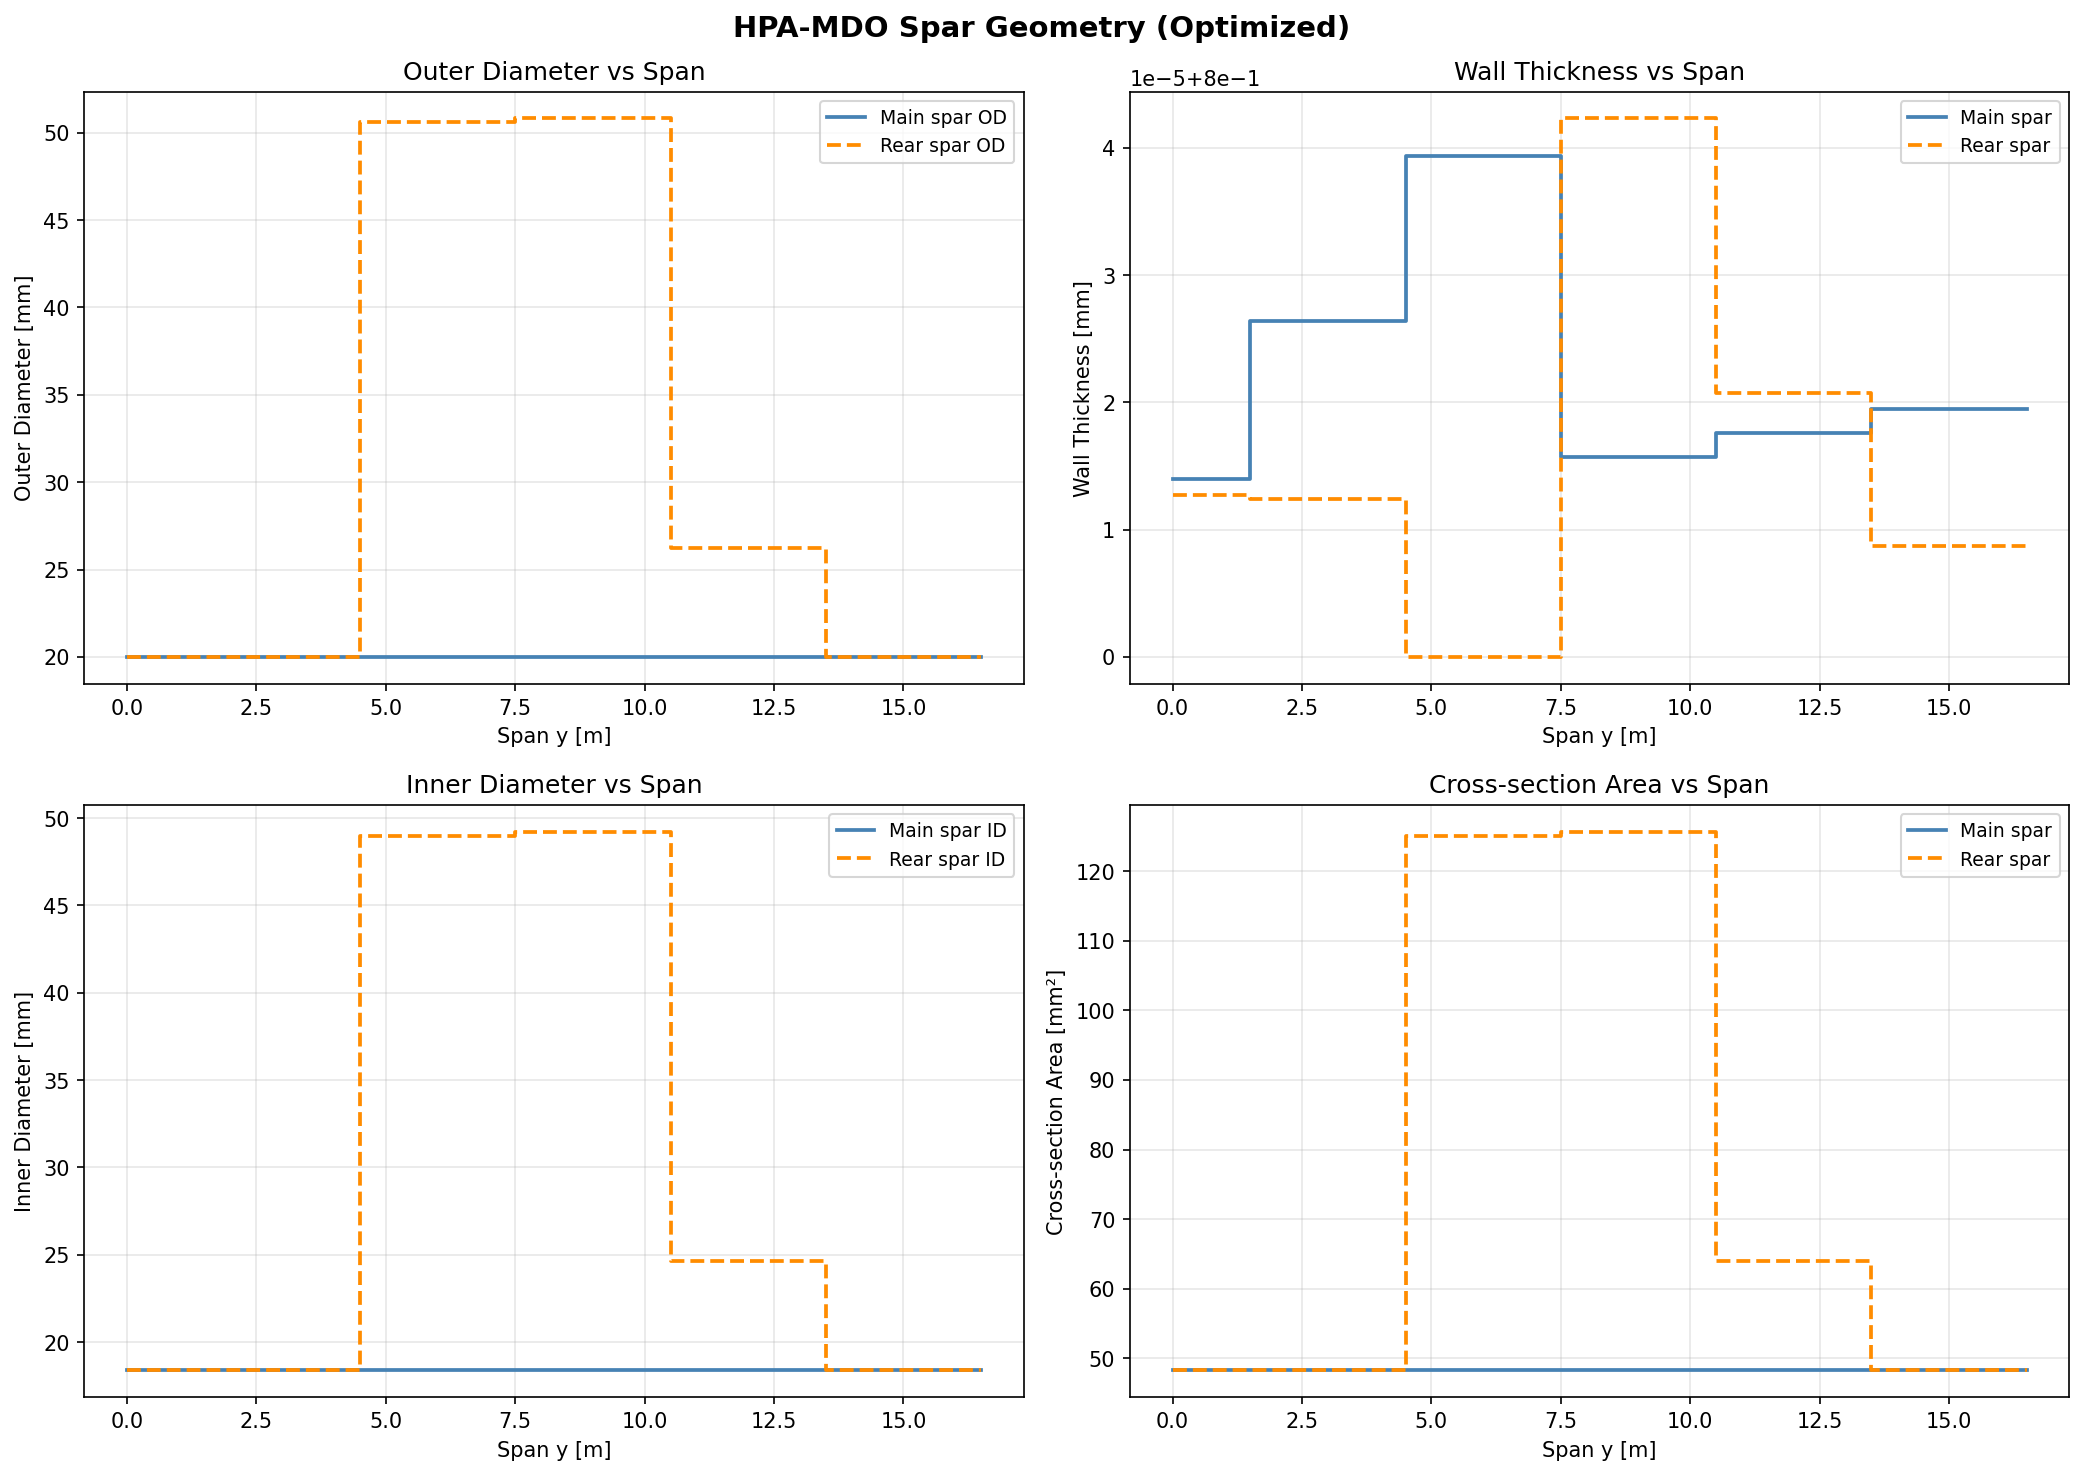
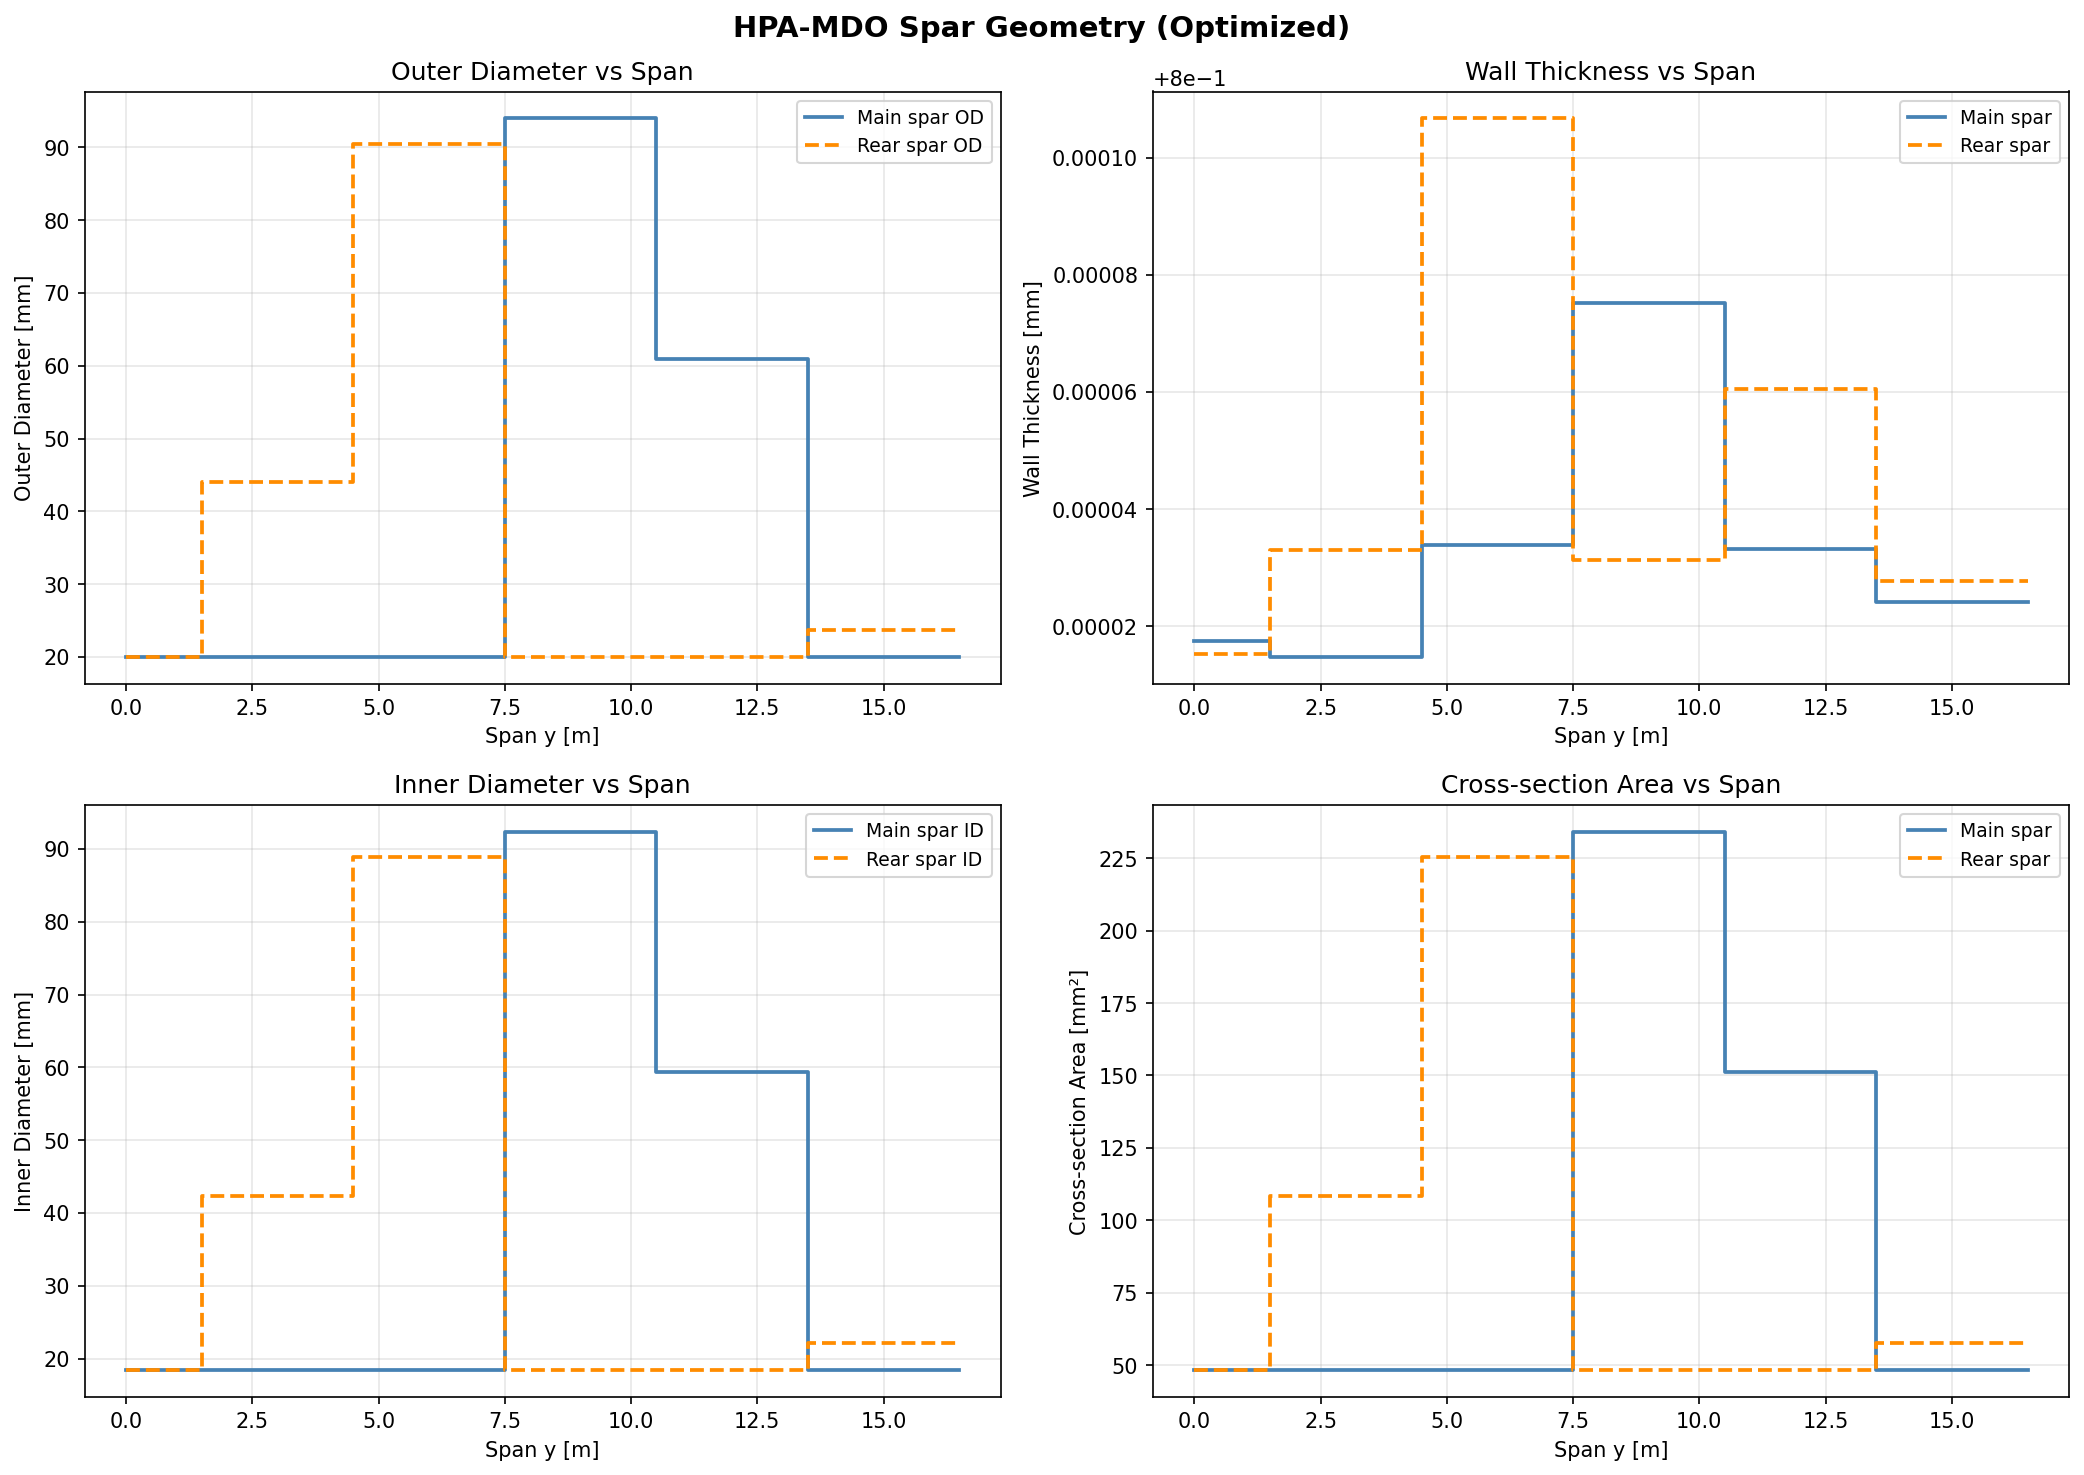
feat: Add max 2.5m tip deflection constraint & fix feasible status bugs

diff --git a/src/hpa_mdo/structure/optimizer.py b/src/hpa_mdo/structure/optimizer.py
@@ -65,6 +65,7 @@ class OptimizationResult:
     allowable_stress_rear_Pa: float
     failure_index: float           # KS ≤ 0 means feasible
     tip_deflection_m: float
+    max_tip_deflection_m: Optional[float]
     twist_max_deg: float
 
     # Design variables
@@ -80,19 +81,32 @@ class OptimizationResult:
 
     def summary(self) -> str:
         """Human-readable summary."""
+        # Check overall feasibility
+        feasible = (
+            self.failure_index <= 0
+            and (self.max_tip_deflection_m is None or self.tip_deflection_m <= self.max_tip_deflection_m * 1.02)
+        )
+        status_text = "✓ CONVERGED (Feasible)" if (self.success and feasible) else "✗ CONVERGED (Infeasible)" if self.success else "✗ FAILED"
+        
         lines = [
             "=" * 60,
             "  HPA-MDO Spar Optimization Result",
             "=" * 60,
-            f"  Status         : {'✓ CONVERGED' if self.success else '✗ FAILED'} — {self.message}",
+            f"  Status         : {status_text} — {self.message}",
             f"  Total mass     : {self.total_mass_full_kg:.2f} kg (full span)",
             f"  Spar tube mass : {self.spar_mass_full_kg:.2f} kg (full span)",
-            f"  Tip deflection : {self.tip_deflection_m*1000:.0f} mm",
-            f"  Max twist      : {self.twist_max_deg:.2f}°",
-            f"  Failure index  : {self.failure_index:.4f} ({'SAFE' if self.failure_index <= 0 else 'VIOLATED'})",
-            "",
-            "  Main spar segments:",
         ]
+        
+        defl_str = f"{self.tip_deflection_m*1000:.0f} mm"
+        if self.max_tip_deflection_m is not None:
+            defl_status = "OK" if self.tip_deflection_m <= self.max_tip_deflection_m * 1.02 else "VIOLATED"
+            defl_str += f" / {self.max_tip_deflection_m*1000:.0f} mm max ({defl_status})"
+            
+        lines.append(f"  Tip deflection : {defl_str}")
+        lines.append(f"  Max twist      : {self.twist_max_deg:.2f}°")
+        lines.append(f"  Failure index  : {self.failure_index:.4f} ({'SAFE' if self.failure_index <= 0 else 'VIOLATED'})")
+        lines.append("")
+        lines.append("  Main spar segments:")
         for i, (t, r) in enumerate(zip(self.main_t_seg_mm, self.main_r_seg_mm)):
             lines.append(f"    Segment {i+1}: OD={r*2:.1f}mm, t={t:.2f}mm")
         if self.rear_t_seg_mm is not None and self.rear_r_seg_mm is not None:
@@ -226,6 +240,7 @@ class SparOptimizer:
         bounds = bounds_main_t + bounds_main_r + bounds_rear_t + bounds_rear_r
 
         max_twist = cfg.wing.max_tip_twist_deg
+        max_defl = cfg.wing.max_tip_deflection_m if cfg.wing.max_tip_deflection_m is not None else float("inf")
 
         # Evaluation cache
         _cache = {}
@@ -248,6 +263,7 @@ class SparOptimizer:
                 "mass": float(self._prob.get_val("struct.mass.total_mass_full")),
                 "failure": float(self._prob.get_val("struct.failure.failure")),
                 "twist": float(self._prob.get_val("struct.twist.twist_max_deg")),
+                "tip_defl": float(self._prob.get_val("struct.tip_defl.tip_deflection_m")),
             }
             _cache[key] = res
             return res
@@ -265,6 +281,10 @@ class SparOptimizer:
             if r["twist"] > max_twist:
                 excess = (r["twist"] - max_twist) / max_twist
                 penalty += 1000.0 * excess ** 2
+            # Deflection violation
+            if max_defl < float("inf") and r["tip_defl"] > max_defl:
+                excess_defl = (r["tip_defl"] - max_defl) / max_defl
+                penalty += 1000.0 * excess_defl ** 2
             # Physically impossible tube: wall thickness > 95% of radius
             x_main_t = x[:n_seg]
             x_main_r = x[n_seg:2*n_seg]
@@ -279,6 +299,7 @@ class SparOptimizer:
                     penalty += 200.0 * float(np.sum(np.maximum(t_r_ratio_rear, 0.0) ** 2))
             return r["mass"] * (1.0 + penalty)
 
+        print("  [Phase 1] Differential Evolution global search...")
         de_result = differential_evolution(
             penalty_obj, bounds=bounds, seed=42,
             maxiter=200, tol=1e-5, polish=False,
@@ -301,6 +322,8 @@ class SparOptimizer:
             {"type": "ineq", "fun": lambda x: -_eval(x)["failure"]},
             {"type": "ineq", "fun": lambda x: max_twist - _eval(x)["twist"]},
         ]
+        if max_defl < float("inf"):
+            constraints.append({"type": "ineq", "fun": lambda x: max_defl - _eval(x)["tip_defl"]})
 
         slsqp = scipy_minimize(
             obj, x_de, method="SLSQP",
@@ -314,9 +337,10 @@ class SparOptimizer:
 
         tol_f = 0.01  # failure tolerance
         tol_tw = max_twist * 1.02  # 2% tolerance on twist
+        tol_df = max_defl * 1.02 if max_defl < float("inf") else float("inf")
 
-        de_feas = r_de["failure"] <= tol_f and r_de["twist"] <= tol_tw
-        sq_feas = r_sq["failure"] <= tol_f and r_sq["twist"] <= tol_tw
+        de_feas = r_de["failure"] <= tol_f and r_de["twist"] <= tol_tw and r_de["tip_defl"] <= tol_df
+        sq_feas = r_sq["failure"] <= tol_f and r_sq["twist"] <= tol_tw and r_sq["tip_defl"] <= tol_df
 
         # ALWAYS prefer feasible over infeasible
         if sq_feas and de_feas:
@@ -331,7 +355,13 @@ class SparOptimizer:
         else:
             # Neither feasible — pick the one with less constraint violation
             v_de = max(0, r_de["failure"]) + max(0, r_de["twist"] - max_twist)
+            if max_defl < float("inf"):
+                v_de += max(0, r_de["tip_defl"] - max_defl) / max_defl  # Normalized
+            
             v_sq = max(0, r_sq["failure"]) + max(0, r_sq["twist"] - max_twist)
+            if max_defl < float("inf"):
+                v_sq += max(0, r_sq["tip_defl"] - max_defl) / max_defl
+
             x_best = slsqp.x if v_sq <= v_de else x_de
             msg = "scipy: no fully feasible solution — best compromise"
 
@@ -343,7 +373,7 @@ class SparOptimizer:
             self._prob.set_val("struct.seg_mapper.rear_r_seg", x_best[3*n_seg:], units="m")
         raw = run_analysis(self._prob)
         best_r = _eval(x_best)
-        success = best_r["failure"] <= tol_f and best_r["twist"] <= tol_tw
+        success = best_r["failure"] <= tol_f and best_r["twist"] <= tol_tw and best_r["tip_defl"] <= tol_df
         return self._to_result(raw, success=success, message=msg)
 
     def _to_result(self, raw: dict, success: bool, message: str) -> OptimizationResult:
@@ -370,6 +400,7 @@ class SparOptimizer:
             allowable_stress_rear_Pa=sigma_a_rear,
             failure_index=raw["failure"],
             tip_deflection_m=raw["tip_deflection_m"],
+            max_tip_deflection_m=cfg.wing.max_tip_deflection_m,
             twist_max_deg=raw["twist_max_deg"],
             main_t_seg_mm=raw["main_t_seg"] * 1000.0,
             main_r_seg_mm=raw["main_r_seg"] * 1000.0,

diff --git a/src/hpa_mdo/structure/oas_structural.py b/src/hpa_mdo/structure/oas_structural.py
@@ -759,6 +759,31 @@ class TwistConstraintComp(om.ExplicitComponent):
 
 
 # ═════════════════════════════════════════════════════════════════════════
+#  Component 9 : Tip deflection extraction
+# ═════════════════════════════════════════════════════════════════════════
+
+class TipDeflectionConstraintComp(om.ExplicitComponent):
+    """Extract tip deflection from beam displacements.
+
+    tip_deflection = disp[-1, 2]
+    Constraint: tip_deflection <= max_tip_deflection_m.
+    """
+
+    def initialize(self):
+        self.options.declare("n_nodes", types=int)
+
+    def setup(self):
+        nn = self.options["n_nodes"]
+        self.add_input("disp", shape=(nn, 6))
+        self.add_output("tip_deflection_m", val=0.0)
+        self.declare_partials("*", "*", method="cs")
+
+    def compute(self, inputs, outputs):
+        # Vertical displacement (Z) is DOF 2
+        outputs["tip_deflection_m"] = inputs["disp"][-1, 2]
+
+
+# ═════════════════════════════════════════════════════════════════════════
 #  Top-level group
 # ═════════════════════════════════════════════════════════════════════════
 
@@ -944,6 +969,9 @@ class HPAStructuralGroup(om.Group):
         # 8. Twist constraint
         self.add_subsystem("twist", TwistConstraintComp(n_nodes=nn))
 
+        # 9. Tip deflection constraint
+        self.add_subsystem("tip_defl", TipDeflectionConstraintComp(n_nodes=nn))
+
         # ── Connections ──
         self.connect("seg_mapper.main_t_elem", "spar_props.main_t_elem")
         self.connect("seg_mapper.main_r_elem", "spar_props.main_r_elem")
@@ -977,6 +1005,7 @@ class HPAStructuralGroup(om.Group):
             self.connect("stress.vonmises_rear", "failure.vonmises_rear")
 
         self.connect("fem.disp", "twist.disp")
+        self.connect("fem.disp", "tip_defl.disp")
 
 
 def compute_outer_radius_from_wing(wing, spar_cfg) -> np.ndarray:
@@ -1067,6 +1096,13 @@ def build_structural_problem(
         upper=cfg.wing.max_tip_twist_deg,
     )
 
+    # 3. Tip deflection constraint
+    if cfg.wing.max_tip_deflection_m is not None:
+        model.add_constraint(
+            "struct.tip_defl.tip_deflection_m",
+            upper=cfg.wing.max_tip_deflection_m,
+        )
+
     # ── Driver ──
     driver = prob.driver = om.ScipyOptimizeDriver()
     driver.options["optimizer"] = cfg.solver.optimizer
@@ -1150,7 +1186,7 @@ def _extract_results(prob: om.Problem) -> dict:
         "failure": float(prob.get_val("struct.failure.failure")),
         "twist_max_deg": float(prob.get_val("struct.twist.twist_max_deg")),
         "disp": prob.get_val("struct.fem.disp").copy(),
-        "tip_deflection_m": float(prob.get_val("struct.fem.disp")[-1, 2]),
+        "tip_deflection_m": float(prob.get_val("struct.tip_defl.tip_deflection_m")),
         "vonmises_main": prob.get_val("struct.stress.vonmises_main").copy(),
         "main_t_seg": prob.get_val("struct.seg_mapper.main_t_seg").copy(),
         "main_r_seg": prob.get_val("struct.seg_mapper.main_r_seg").copy(),

diff --git a/src/hpa_mdo/utils/visualization.py b/src/hpa_mdo/utils/visualization.py
@@ -160,7 +160,17 @@ def plot_beam_analysis(
     # ── 6. Mass summary ───────────────────────────────────────────────────
     ax6 = fig.add_subplot(gs[1, 2])
     ax6.axis("off")
-    status_str = "CONVERGED" if result.success else "FAILED"
+    feasible = (
+        result.failure_index <= 0
+        and (result.max_tip_deflection_m is None or result.tip_deflection_m <= result.max_tip_deflection_m * 1.02)
+    )
+    if result.success and feasible:
+        status_str = "CONVERGED (Feasible)"
+    elif result.success:
+        status_str = "CONVERGED (Infeasible)"
+    else:
+        status_str = "FAILED"
+        
     summary_text = (
         f"Mass Summary\n"
         f"{'=' * 30}\n"
@@ -332,7 +342,17 @@ def write_optimization_summary(
         The formatted summary string.
     """
     ts = datetime.now().strftime("%Y-%m-%d %H:%M:%S")
-    status = "CONVERGED" if result.success else "FAILED"
+    
+    feasible = (
+        result.failure_index <= 0
+        and (result.max_tip_deflection_m is None or result.tip_deflection_m <= result.max_tip_deflection_m * 1.02)
+    )
+    if result.success and feasible:
+        status = "CONVERGED (Feasible)"
+    elif result.success:
+        status = "CONVERGED (Infeasible)"
+    else:
+        status = "FAILED"
 
     # ── Header ────────────────────────────────────────────────────────────
     lines = [
@@ -351,8 +371,15 @@ def write_optimization_summary(
         "-" * 64,
         "  STRUCTURAL PERFORMANCE",
         "-" * 64,
-        f"  Tip deflection  : {result.tip_deflection_m * 1000:.2f} mm  "
-        f"({result.tip_deflection_m:.5f} m)",
+    ]
+    
+    defl_str = f"  Tip deflection  : {result.tip_deflection_m * 1000:.2f} mm  ({result.tip_deflection_m:.5f} m)"
+    if result.max_tip_deflection_m is not None:
+        defl_status = "OK" if result.tip_deflection_m <= result.max_tip_deflection_m * 1.02 else "VIOLATED"
+        defl_str += f" / MAX: {result.max_tip_deflection_m*1000:.1f} mm ({defl_status})"
+    lines.append(defl_str)
+    
+    lines += [
         f"  Max twist       : {result.twist_max_deg:.3f} deg",
         f"  Failure index   : {result.failure_index:.5f}  "
         f"({'SAFE' if result.failure_index <= 0 else 'VIOLATED'})",

diff --git a/src/hpa_mdo/core/config.py b/src/hpa_mdo/core/config.py
@@ -46,6 +46,9 @@ class WingConfig(BaseModel):
     airfoil_root: str = "clarkysm"
     airfoil_tip: str = "fx76mp140"
     max_tip_twist_deg: float = Field(2.0, description="Torsion constraint [deg]")
+    max_tip_deflection_m: Optional[float] = Field(
+        None, description="Max allowable tip deflection [m]"
+    )
 
 
 class SparConfig(BaseModel):

diff --git a/claude.md b/claude.md
@@ -9,6 +9,7 @@
 5. 材料必須透過 `MaterialDB` 以鍵值方式從 `data/materials.yaml` 載入 -- 不得有行內材料定義，Python 程式碼中任何地方都不得有硬編碼的 E/G/density/strength 數值。
 6. VSPAero 的外部氣動力載荷重新量綱化，必須使用實際飛行條件（V=config.flight.velocity、rho=config.flight.air_density）-- 絕不直接使用 VSPAero 的參考條件，因為 VSPAero 的執行 Vinf/rho 可能與實際巡航狀態不同。
 7. 任何求解器崩潰或結果不符合物理時，必須輸出 `val_weight: 99999` 並優雅地結束 -- 絕不讓程序以未處理的例外中止。`val_weight` 輸出協定由上游 AI 代理迴圈消費。
+8. 未來所有的高階系統文件（如 README、操作手冊、架構說明等），必須一律使用繁體中文 (Traditional Chinese) 撰寫與更新。終端機的 Log、程式註解與輸出的 .txt 報告保持英文。
 
 ## 架構規則
 
